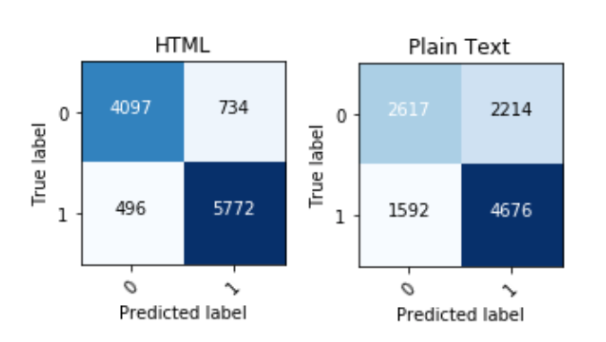
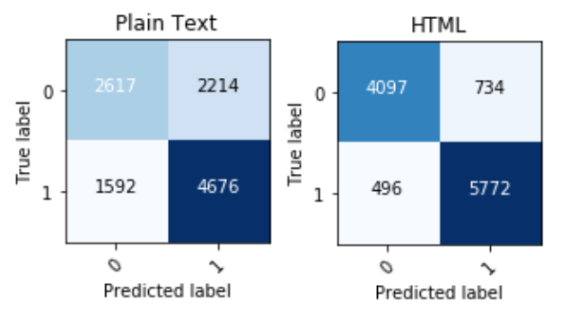
smaller picture for paper

diff --git a/README.md b/README.md
@@ -1,6 +1,7 @@
 # W266 Final Project Resume Analysis 
 
 
-----------
+W 266: Natural Language Processing
+UC Berkeley School of Information
 
-public url:
+Findings
